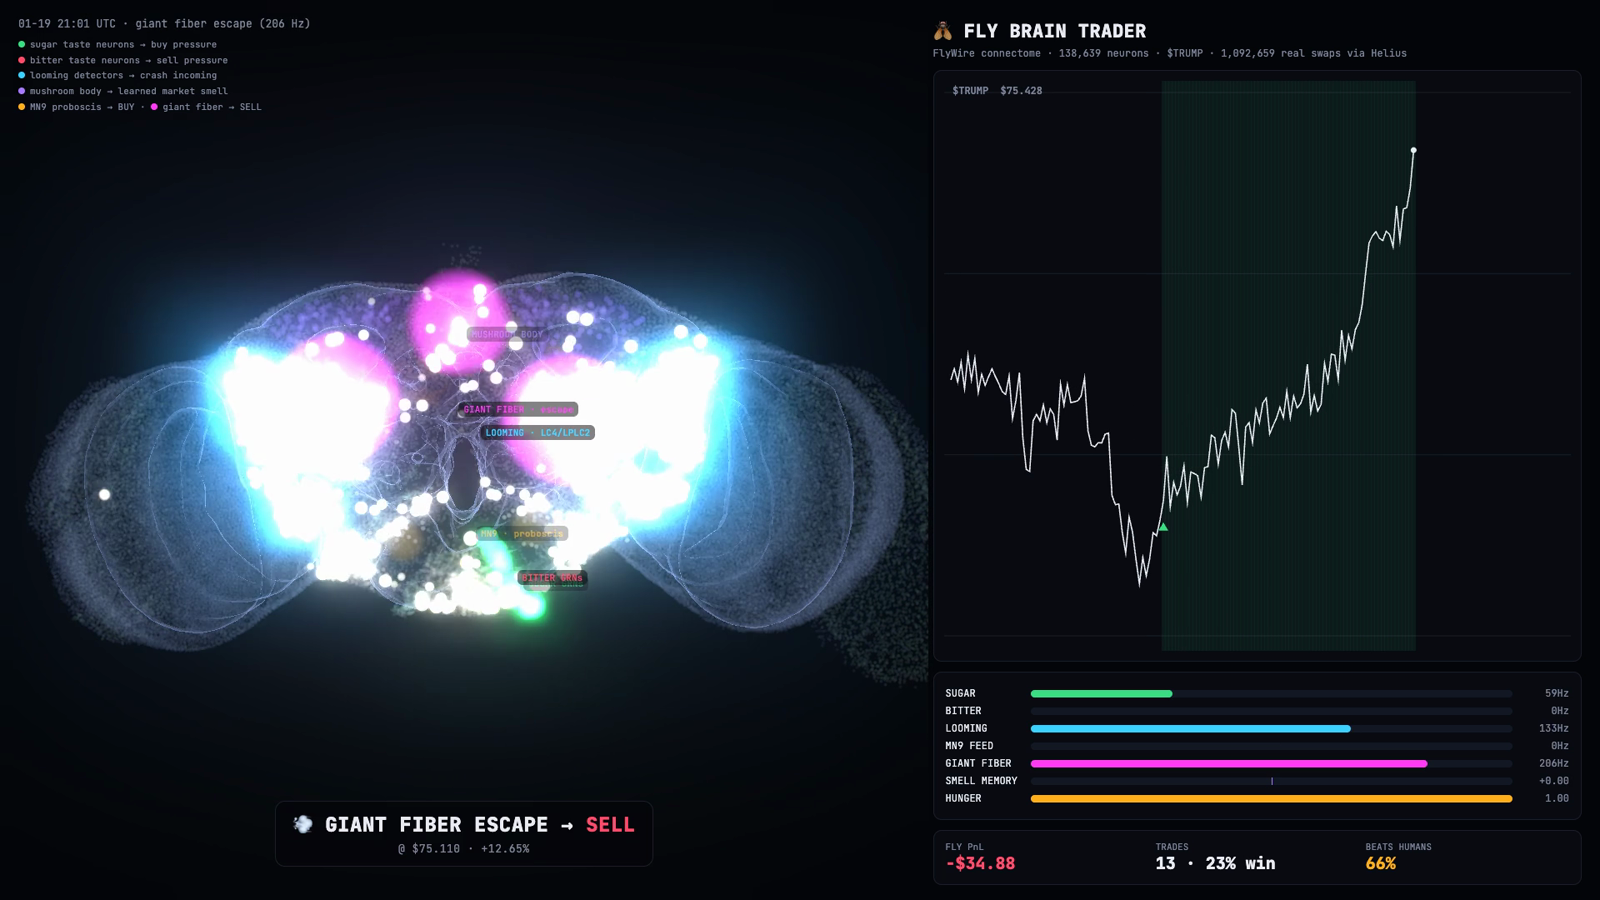
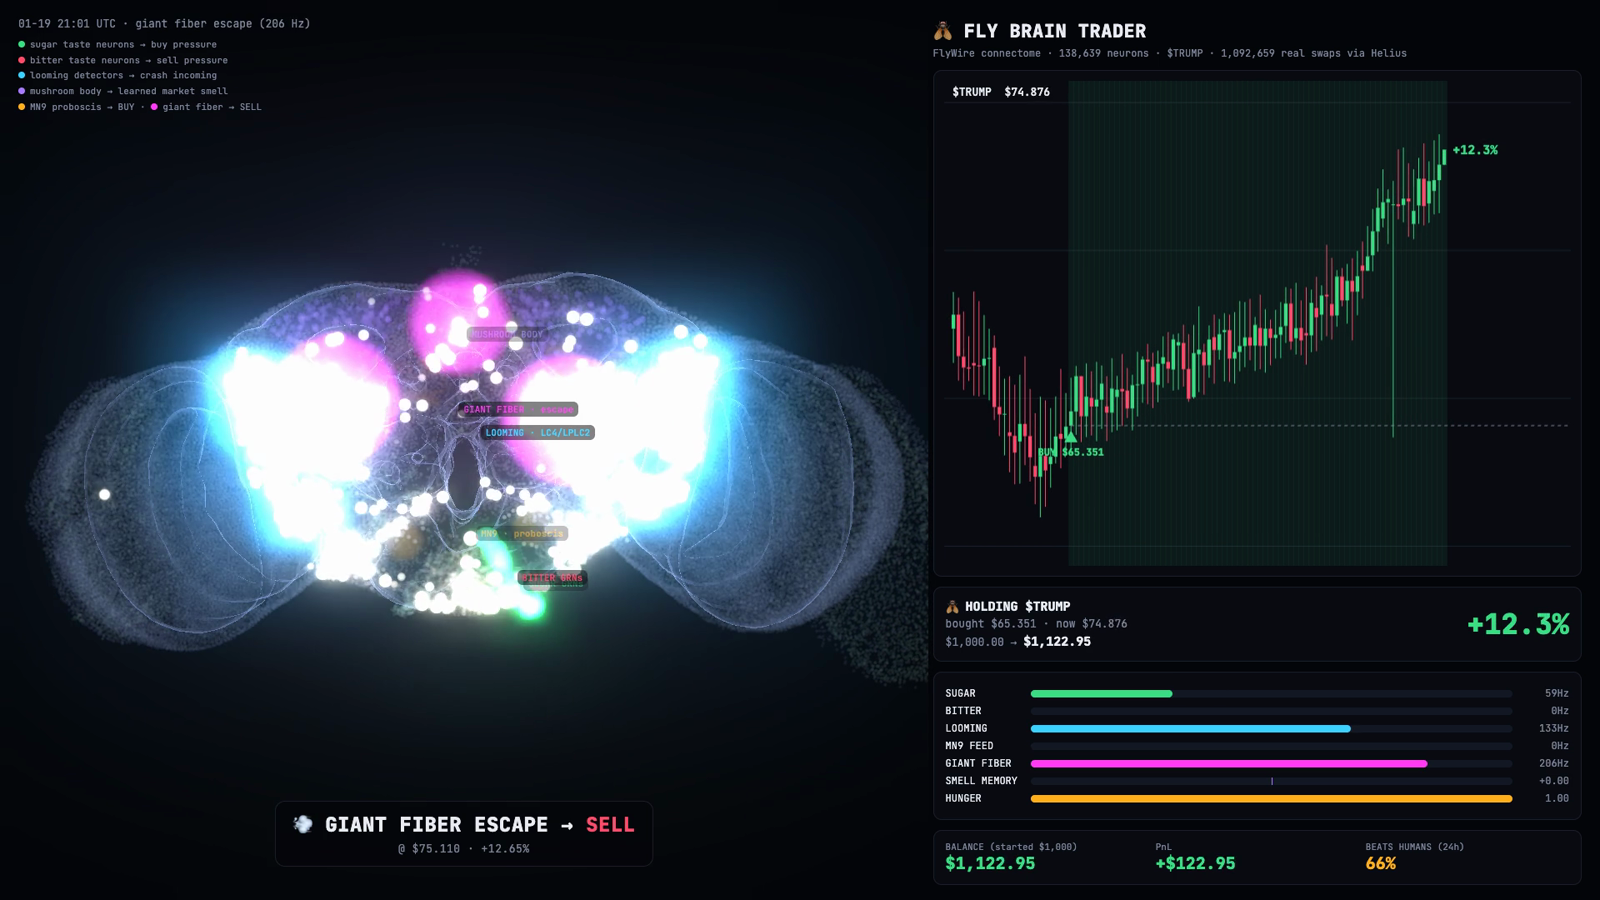
viewer: candles, live position card, $1,000 compounding balance, clip-based end card
The PnL panel used to show the whole day's realized total, so a +12.6% trade
inside a clip looked like a small move from a negative number. It now counts
from the start of the clip, updates live while a position is open, and the
end card compares the fly with a human who bought at the same moment and held.

diff --git a/viz/index.html b/viz/index.html
@@ -23,6 +23,10 @@
   .bar { height:9px; background:#141824; border-radius:5px; overflow:hidden; }
   .bar > i { display:block; height:100%; width:0; border-radius:5px; transition: width .08s linear; }
   .val { text-align:right; color:var(--muted); font-variant-numeric:tabular-nums; }
+  #position { display:flex; align-items:center; justify-content:space-between; gap:12px; }
+  #position .what { font-size:13px; color:var(--muted); line-height:1.5; }
+  #position .what b { color:var(--fg); font-size:15px; }
+  #position .pct { font-size:34px; font-weight:800; font-variant-numeric:tabular-nums; }
   .stats { display:grid; grid-template-columns: repeat(3, 1fr); gap:8px; }
   .stat .k { color:var(--muted); font-size:11px; } .stat .v { font-size:20px; font-weight:800; font-variant-numeric:tabular-nums; }
   #caption { position:absolute; left:50%; bottom:40px; transform:translateX(-50%); padding:12px 20px; border-radius:12px;
@@ -72,6 +76,7 @@
   <div id="side">
     <div class="title" id="title">🪰 FLY BRAIN TRADER<small id="subtitle"></small></div>
     <div class="panel chartwrap"><canvas id="chart"></canvas></div>
+    <div class="panel" id="position"></div>
     <div class="panel" id="senses"></div>
     <div class="panel stats" id="stats"></div>
   </div>
@@ -172,7 +177,7 @@ const tags = [["sugar", "SUGAR GRNs", "--sugar"], ["bitter", "BITTER GRNs", "--b
 
 // ---------- episode data ----------
 const bars = ep.bars, B = bars.length, simFrames = ep.sim_frames;
-const END = Math.min(B - 1, +(params.get("end") || B - 1));   // clip end bar (end card shows here)   // sim_frames[key] = [offsets...]
+const END = Math.min(B - 1, +(params.get("end") || B - 1));   // clip end bar (end card shows here)
 const keyFrames = k => { const o = simFrames[k]; if (!o) return []; const out = [];
   for (let j = 0; j + 1 < o.length; j++) out.push(spk.subarray(o[j], o[j + 1])); return out; };
 const kcIdx = labels.groups.kenyon;
@@ -190,28 +195,89 @@ const meters = [["sugar", "SUGAR", "--sugar", 200, "Hz"], ["bitter", "BITTER", "
 const stats = document.getElementById("stats");
 const chart = document.getElementById("chart"), cx = chart.getContext("2d");
 
+// ---------- clip accounting (everything is counted from the start of what's on screen) ----------
+const START = +(params.get("from") || 0);
+const FEE = ep.fee ?? 0, BANK = +(params.get("bank") || 1000);   // starting balance, all-in per trade, compounding
+const money = x => "$" + x.toLocaleString("en-US", { minimumFractionDigits: 2, maximumFractionDigits: 2 });
+const fills = trades.map(t => ({ ...t, at: t.i }));                 // bar where the order filled
+const priceAt = (i, frac) => { const p0 = bars[Math.max(i - 1, 0)].c, p1 = bars[i].c; return p0 + (p1 - p0) * frac; };
+function position(i) {                                              // open position at bar i (after fills)
+  let open = null;
+  for (const t of fills) { if (t.at > i) break; open = t.side === "buy" ? t : null; }
+  if (open && open.at < START) open = { ...open, price: bars[START].c, at: START };  // carried in: mark from clip start
+  return open;
+}
+const netRet = (entry, px) => px / entry * (1 - FEE) ** 2 - 1;
+function clipPnl(i, frac) {
+  let bank = BANK, n = 0, wins = 0;
+  for (const t of fills) if (t.side === "sell" && t.at >= START && t.at <= i) { bank *= 1 + t.ret; n++; if (t.ret > 0) wins++; }
+  const open = position(i);
+  const live = open ? netRet(open.price, priceAt(i, frac)) : null;
+  const balance = bank * (1 + (live ?? 0));
+  return { stake: bank, balance, ret: balance / BANK - 1, n, wins, open, live };
+}
+
 function drawChart(bi, sub) {
   const r = chart.getBoundingClientRect(), dpr = Math.min(devicePixelRatio, 2);
   chart.width = r.width * dpr; chart.height = r.height * dpr; cx.setTransform(dpr, 0, 0, dpr, 0, 0);
-  const W = r.width, H = r.height, win = Math.min(B, 180), s = Math.max(0, Math.min(bi - Math.floor(win * 0.75), B - win));
-  const seg = bars.slice(s, Math.max(bi + 1, s + 30)), lo = Math.min(...seg.map(b => b.c)) * 0.98, hi = Math.max(...seg.map(b => b.c)) * 1.02;
-  const X = i => 8 + (i - s) / (win - 1) * (W - 16), Y = p => H - 18 - (Math.log(p) - Math.log(lo)) / (Math.log(hi) - Math.log(lo) || 1) * (H - 40);
+  const W = r.width, H = r.height, win = Math.min(B, 120), s = Math.max(0, Math.min(bi - Math.floor(win * 0.8), B - win));
+  const last = Math.min(bi, s + win - 1);
+  const seg = bars.slice(s, Math.max(last + 1, s + 20));
+  const lo = Math.min(...seg.map(b => b.lo ?? b.c)) * 0.985, hi = Math.max(...seg.map(b => b.hi ?? b.c)) * 1.015;
+  const bw = (W - 16) / win, X = i => 8 + (i - s + 0.5) * bw;
+  const Y = p => H - 22 - (Math.log(p) - Math.log(lo)) / (Math.log(hi) - Math.log(lo) || 1) * (H - 50);
   cx.strokeStyle = "#1b1f2c"; cx.lineWidth = 1;
-  for (let g = 0; g < 4; g++) { const y = 14 + g * (H - 32) / 3; cx.beginPath(); cx.moveTo(0, y); cx.lineTo(W, y); cx.stroke(); }
-  // shade when fly is holding
-  cx.fillStyle = "rgba(61,220,132,.07)";
-  for (let i = s; i <= Math.min(bi, s + win - 1); i++) if (bars[i].p) cx.fillRect(X(i) - (W / win) / 2, 0, W / win + 0.5, H);
-  cx.strokeStyle = css("--price"); cx.lineWidth = 1.6; cx.beginPath();
-  for (let i = s; i <= Math.min(bi, s + win - 1); i++) { const x = X(i) + (i === bi ? (sub - 1) * (W / win) : 0); i === s ? cx.moveTo(x, Y(bars[i].c)) : cx.lineTo(X(i), Y(bars[i].c)); }
-  cx.stroke();
-  for (const t of trades) { if (t.i < s || t.i > bi) continue;
-    const x = X(t.i), y = Y(t.price), buy = t.side === "buy";
+  for (let g = 0; g < 4; g++) { const y = 26 + g * (H - 50) / 3; cx.beginPath(); cx.moveTo(0, y); cx.lineTo(W, y); cx.stroke(); }
+  // holding band
+  for (let i = s; i <= last; i++) if (position(i)) { cx.fillStyle = "rgba(61,220,132,.08)"; cx.fillRect(X(i) - bw / 2, 0, bw + 0.5, H); }
+  // candles (the current one grows during the bar)
+  for (let i = s; i <= last; i++) {
+    const b = bars[i], o = b.o ?? b.c, c = i === bi ? priceAt(i, sub) : b.c;
+    const h = i === bi ? Math.max(o, c) : (b.hi ?? c), l = i === bi ? Math.min(o, c) : (b.lo ?? c);
+    const up = c >= o; cx.strokeStyle = cx.fillStyle = up ? css("--buy") : css("--sell");
+    cx.beginPath(); cx.moveTo(X(i), Y(h)); cx.lineTo(X(i), Y(l)); cx.lineWidth = 1; cx.stroke();
+    const top = Y(Math.max(o, c)), hgt = Math.max(1, Math.abs(Y(o) - Y(c)));
+    cx.fillRect(X(i) - Math.max(1, bw * 0.35), top, Math.max(2, bw * 0.7), hgt);
+  }
+  // trade markers with labels
+  cx.font = "700 12px JetBrains Mono";
+  for (const t of fills) { if (t.at < s || t.at > bi) continue;
+    const x = X(t.at), y = Y(t.price), buy = t.side === "buy";
     cx.fillStyle = buy ? css("--buy") : css("--sell"); cx.beginPath();
-    if (buy) { cx.moveTo(x, y + 4); cx.lineTo(x - 6, y + 14); cx.lineTo(x + 6, y + 14); } else { cx.moveTo(x, y - 4); cx.lineTo(x - 6, y - 14); cx.lineTo(x + 6, y - 14); }
+    if (buy) { cx.moveTo(x, y + 6); cx.lineTo(x - 8, y + 20); cx.lineTo(x + 8, y + 20); }
+    else { cx.moveTo(x, y - 6); cx.lineTo(x - 8, y - 20); cx.lineTo(x + 8, y - 20); }
     cx.fill();
-    if (!buy && t.ret != null) { cx.font = "600 11px JetBrains Mono"; cx.fillText((t.ret >= 0 ? "+" : "") + (t.ret * 100).toFixed(1) + "%", x + 8, y - 8); } }
-  const cb = bars[bi]; cx.fillStyle = css("--price"); cx.beginPath(); cx.arc(X(bi), Y(cb.c), 3.5, 0, 7); cx.fill();
-  cx.font = "600 12px JetBrains Mono"; cx.fillStyle = css("--muted"); cx.fillText(`${ep.symbol}  $${fmt(cb.c)}`, 10, 16);
+    const label = buy ? `BUY $${fmt(t.price)}` : `SELL ${(t.ret >= 0 ? "+" : "") + (t.ret * 100).toFixed(1)}%`;
+    const tw = cx.measureText(label).width, lx = Math.min(Math.max(x - tw / 2, 4), W - tw - 4);
+    cx.fillText(label, lx, Math.min(Math.max(buy ? y + 36 : y - 26, 34), H - 6));
+  }
+  // live price + open position line
+  const now = priceAt(bi, sub), open = position(bi);
+  if (open) {
+    const ret = netRet(open.price, now);
+    cx.setLineDash([4, 4]); cx.strokeStyle = css("--muted"); cx.beginPath(); cx.moveTo(X(Math.max(open.at, s)), Y(open.price)); cx.lineTo(W, Y(open.price)); cx.stroke(); cx.setLineDash([]);
+    cx.font = "800 15px JetBrains Mono"; cx.fillStyle = ret >= 0 ? css("--buy") : css("--sell");
+    cx.fillText(`${ret >= 0 ? "+" : ""}${(ret * 100).toFixed(1)}%`, Math.min(X(bi) + 10, W - 70), Y(now) + 5);
+  }
+  cx.font = "600 13px JetBrains Mono"; cx.fillStyle = css("--fg"); cx.fillText(`${ep.symbol}  $${fmt(now)}`, 10, 18);
+}
+
+function drawPosition(bi, sub) {
+  const el = document.getElementById("position"), pnl = clipPnl(bi, sub);
+  if (pnl.open) {
+    const c = pnl.live >= 0 ? "--buy" : "--sell";
+    el.innerHTML = `<div class="what">🪰 <b>HOLDING ${esc(ep.symbol)}</b><br>bought $${fmt(pnl.open.price)} · now $${fmt(priceAt(bi, sub))}<br>${money(pnl.stake)} → <b>${money(pnl.balance)}</b></div>
+      <div class="pct" style="color:var(${c})">${pnl.live >= 0 ? "+" : ""}${(pnl.live * 100).toFixed(1)}%</div>`;
+  } else {
+    const lastSell = [...fills].reverse().find(t => t.side === "sell" && t.at <= bi && t.at >= START);
+    el.innerHTML = `<div class="what">🪰 <b>WATCHING</b><br>${lastSell ? `last trade ${(lastSell.ret >= 0 ? "+" : "") + (lastSell.ret * 100).toFixed(1)}%` : "not in a trade"}</div>
+      <div class="pct" style="color:var(--muted)">—</div>`;
+  }
+  const gain = pnl.balance - BANK;
+  stats.innerHTML = [[`BALANCE (started ${money(BANK).replace(".00", "")})`, money(pnl.balance), gain >= 0 ? "--buy" : "--sell"],
+    ["PnL", (gain >= 0 ? "+" : "−") + money(Math.abs(gain)), gain >= 0 ? "--buy" : "--sell"],
+    ["BEATS HUMANS (24h)", ep.compare_value, "--mn9"]]
+    .map(([k, v, c]) => `<div class="stat"><div class="k">${k}</div><div class="v" style="${c ? `color:var(${c})` : ""}">${esc(v)}</div></div>`).join("");
 }
 const fmt = p => p >= 1 ? p.toFixed(3) : p.toPrecision(4);
 const esc = s => String(s).replace(/[&<>"']/g, c => ({ "&": "&amp;", "<": "&lt;", ">": "&gt;", '"': "&quot;", "'": "&#39;" }[c]));
@@ -246,22 +312,22 @@ function enterBar(i) {
   for (const mt of meters) { const v = m[mt.k]; const w = mt.k === "valence" ? Math.abs(v) * 50 + "%" : Math.min(100, v / mt.max * 100) + "%";
     mt.fill.style.width = w; mt.fill.style.marginLeft = mt.k === "valence" ? (v < 0 ? 50 - Math.abs(v) * 50 : 50) + "%" : 0;
     mt.val.textContent = mt.unit ? Math.round(v) + mt.unit : (v >= 0 && mt.k === "valence" ? "+" : "") + v.toFixed(2); }
-  const done = trades.filter(t => t.side === "sell" && t.i <= i);
-  const pnl = done.reduce((a, t) => a + t.pnl, 0), wins = done.filter(t => t.ret > 0).length;
-  stats.innerHTML = [["FLY PnL", (pnl >= 0 ? "+$" : "-$") + Math.abs(pnl).toFixed(2), pnl >= 0 ? "--buy" : "--sell"],
-    ["TRADES", `${done.length} · ${done.length ? Math.round(wins / done.length * 100) : 0}% win`, ""],
-    [ep.compare_label, ep.compare_value, "--mn9"]]
-    .map(([k, v, c]) => `<div class="stat"><div class="k">${k}</div><div class="v" style="${c ? `color:var(${c})` : ""}">${esc(v)}</div></div>`).join("");
   document.getElementById("clock").textContent = `${b.t} UTC · ${b.r}`;
 }
 
 function showEnd(on) {
   const el = document.getElementById("endcard"), st = ep.stats || {};
-  if (on && !el.innerHTML) el.innerHTML = `<div><h2>🪰 1 fruit fly brain vs ${(st.humans || 0).toLocaleString()} humans</h2>
-    <div class="big">fly: <b style="color:var(${st.fly_roi >= 0 ? "--buy" : "--sell"})">${(st.fly_roi >= 0 ? "+" : "") + (st.fly_roi * 100).toFixed(1)}%</b>
-    &nbsp;·&nbsp; median human: <b style="color:var(--sell)">${(st.human_median_roi * 100).toFixed(1)}%</b><br>
-    the fly beat <b style="color:var(--mn9)">${Math.round(st.beat_humans * 100)}%</b> of human traders</div>
-    <small>${esc(ep.subtitle)} · paper trading, fees included · return on capital deployed</small></div>`;
+  if (on && !el.innerHTML) {
+    const firstBuy = fills.find(t => t.side === "buy" && t.at >= START && t.at <= END);
+    const clip = clipPnl(END, 1);
+    const held = firstBuy ? netRet(firstBuy.price, bars[END].c) : null;
+    const pct = (x, c) => `<b style="color:var(${c ?? (x >= 0 ? "--buy" : "--sell")})">${x >= 0 ? "+" : ""}${(x * 100).toFixed(1)}%</b>`;
+    el.innerHTML = `<div><h2>🪰 fly: ${money(BANK).replace(".00", "")} → ${money(clip.balance)} (${pct(clip.ret)})</h2>
+      ${held != null ? `<div class="big">a human who bought when the fly did and held: ${pct(held)}</div>` : ""}
+      <div class="big" style="font-size:22px;margin-top:18px">over the whole day the fly beat <b style="color:var(--mn9)">${Math.round(st.beat_humans * 100)}%</b>
+      of ${(st.humans || 0).toLocaleString()} human traders</div>
+      <small>${esc(ep.subtitle)} · paper trading, fees included</small></div>`;
+  }
   el.style.opacity = on ? 1 : 0;
 }
 
@@ -278,6 +344,7 @@ function step() {
   }
   actAttr.needsUpdate = true;
   drawChart(barIdx, sub / FRAMES_PER_BAR);
+  drawPosition(barIdx, sub / FRAMES_PER_BAR);
   if (caption.t > 0 && --caption.t === 0) document.getElementById("caption").style.opacity = 0;
   gframe++;
   sub++; if (sub >= FRAMES_PER_BAR) { sub = 0; if (!REC || barIdx < END) barIdx = barIdx >= END ? 0 : barIdx + 1; else sub = FRAMES_PER_BAR - 1; }

diff --git a/viz/export_episode.py b/viz/export_episode.py
@@ -73,7 +73,8 @@ def main():
                            "pnl": (x["usd"] - ses.paper.size) if x["side"] == "sell" else 0})
             n_tr += 1
         th = ses.decide(t, bar.close, f.loc[t].to_dict())
-        rows.append({"t": f"{t:%m-%d %H:%M}", "c": bar.close, "k": ",".join(map(str, th.key)),
+        rows.append({"t": f"{t:%m-%d %H:%M}", "o": bar.open, "hi": bar.high, "lo": bar.low, "c": bar.close,
+                     "k": ",".join(map(str, th.key)),
                      "s": round(th.senses.sugar_hz), "b": round(th.senses.bitter_hz), "l": round(th.senses.loom_hz),
                      "m": round(th.mn9_hz), "g": round(th.gf_hz), "v": round(th.valence, 3), "h": round(th.hunger, 3),
                      "p": int(ses.paper.in_position), "r": th.reason})
@@ -103,7 +104,7 @@ def main():
     fly_roi = p.cash / p.spent if p.spent else 0.0
     beat = float((hu.roi < fly_roi).mean()) if len(hu) else 0.0
     ep = {
-        "symbol": a.symbol,
+        "symbol": a.symbol, "fee": a.fee, "size": ses.paper.size,
         "subtitle": (f"FlyWire connectome · 138,639 neurons · {a.symbol} · {len(df):,} real swaps via Helius"
                      if not a.demo else "FlyWire connectome · 138,639 neurons · synthetic market (fake data)"),
         "bars": rows, "trades": trades, "kc": kc_rows, "sim_frames": offsets,

diff --git a/README.md b/README.md
@@ -146,7 +146,7 @@ Read this honestly:
 | **Price** | SOL legs are valued with 1-minute SOL/USD candles from Binance (Coinbase as fallback). Prints more than 2× away from the trailing median are dropped. The bar price is a trailing median of the last 15 fills, because single fills carry slippage, sandwiches and tips. |
 | **Fills** | In backtests the fly decides at a bar's close and is filled at the **next** bar's open, plus fees; tests check there is no lookahead. In `live` mode it fills at the latest swap price. |
 | **Humans** | Every wallet that spent ≥$20 in the window. ROI = (realized + open bag marked at the last price, net of exit fees) / spent. Sells of tokens bought *before* the window are ignored. Wallets that look like bots (machine-gun cadence, >40 trades/h, or heavy churn for ~0 edge) are excluded. |
-| **Fly ROI** | PnL / capital deployed, $100 per entry. This is the same metric as for the humans. |
+| **Fly ROI** | PnL / capital deployed, $100 per entry. This is the same metric as for the humans. The video instead shows a $1,000 balance going all-in on each trade (compounding, set with `?bank=`), which is the same per-trade returns shown as a balance. |
 
 ## Limitations
 
